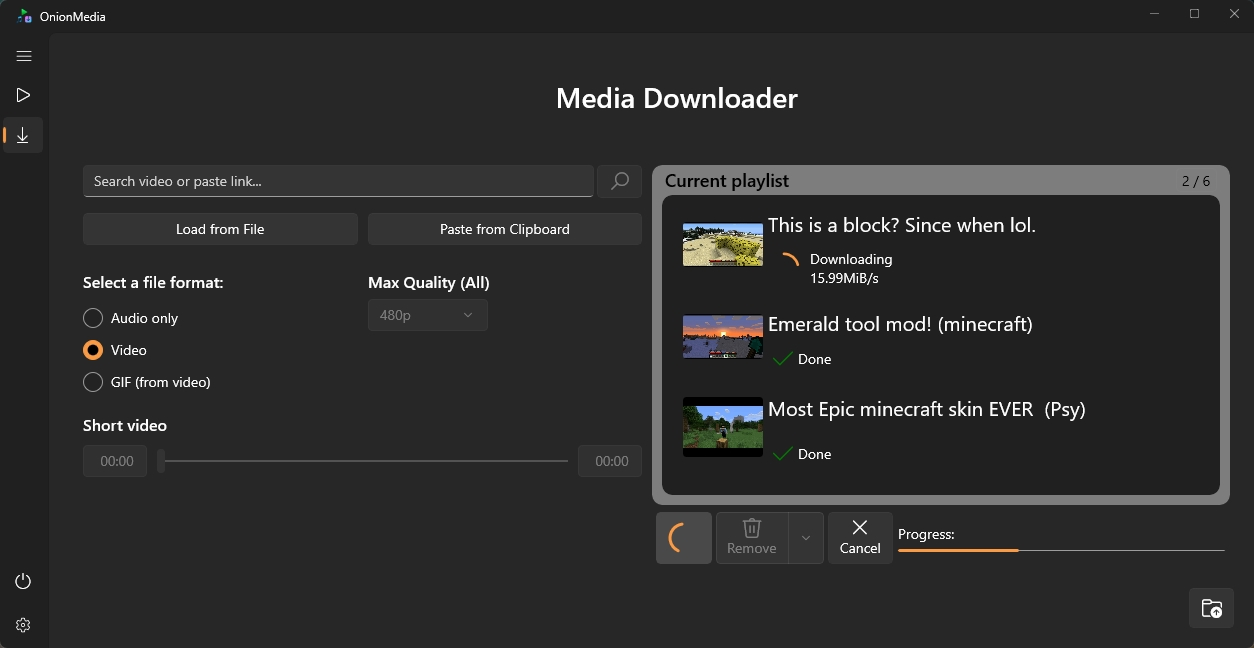
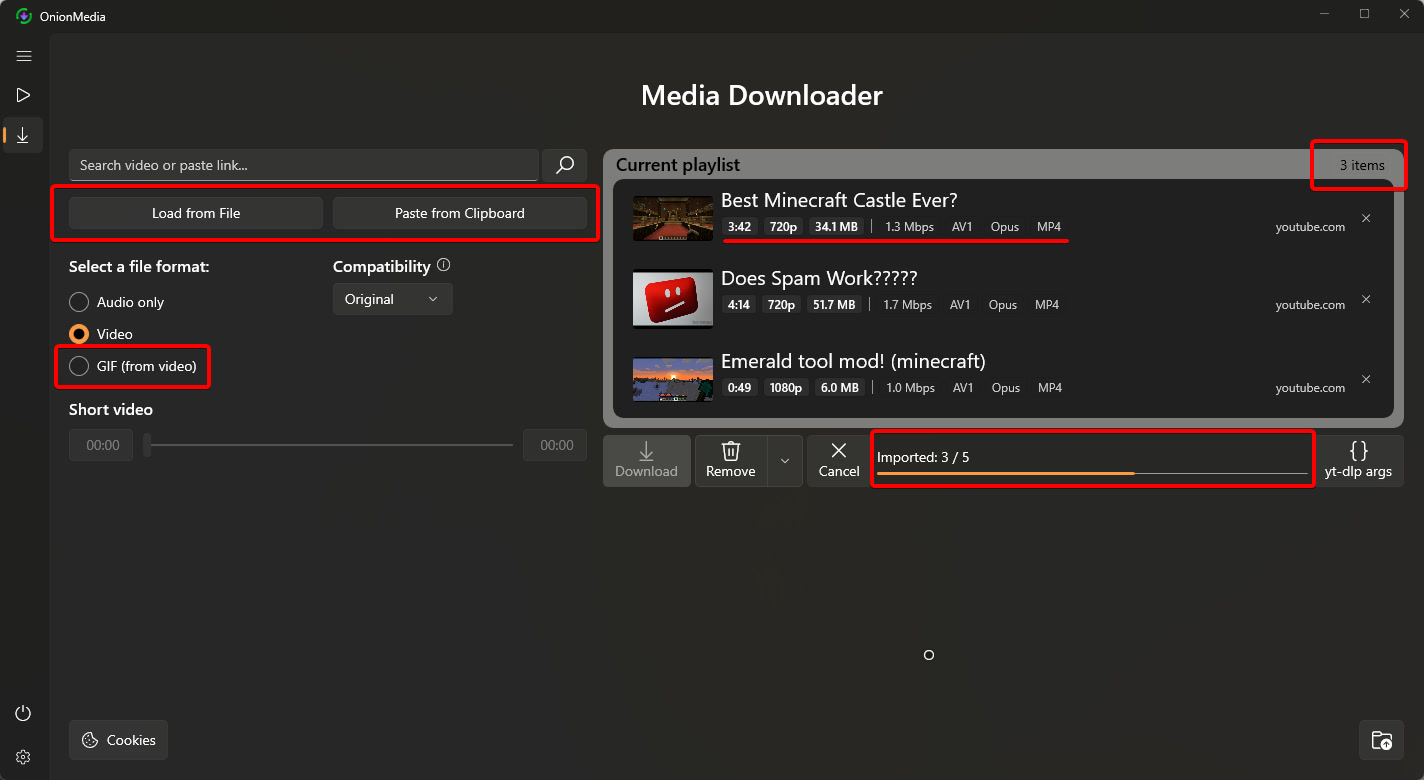
Docs: README, release notes 1.2.26, .project docs and new screenshots

diff --git a/README.md b/README.md
@@ -7,26 +7,49 @@
 > Licensed under AGPL-3.0.
 
 ## What’s new in this fork
-- Added a counter showing the number of downloaded links out of the added ones
-- Added support for downloading multiple videos from a file or clipboard
-- Added an import progress bar
-- Added GIF creation from video with selectable quality options
-- Added Path Folder button on every page
+- Download counter above the progress bar (`Downloaded: 3 / 12`, failed/cancelled videos in brackets) and the number of videos next to *Current playlist* (`12 items`)
+- Batch download: multiple videos from a file or the clipboard
+- Import progress bar with an `Imported: X / Y` counter
+- GIF creation from video with selectable quality options
+- Path Folder button on every page
 - Removed Geo-Restrictions: Reverted YoutubeExplode to a clean version (6.0.7) to remove the political blocking message
-- Added full cookie support (browser, file, paste or custom key) for age-restricted and login-gated videos
+- Full cookie support (browser, file, paste or custom key) for age-restricted and login-gated videos
+- Cloudflare support: browser impersonation is switched on automatically when a site blocks yt-dlp, and the request is retried
+- Video discovery on web pages: if yt-dlp finds nothing, the page itself is scanned (download buttons, players, embeds, KVS tube players) and all found qualities are offered
+- Updated yt-dlp (2026.10.21) with daily auto-update (or update manually from the "yt-dlp args" window)
+- **Compatibility** choice for downloaded videos: **Original** (default – saved as the site delivers it, fastest, no conversion), **Universal** (converted to H.264 + AAC in MP4 when needed, plays everywhere incl. iPhone – takes longer when converting) or **Compact** (AV1/VP9 converted to HEVC/H.265, smaller files)
+- Max Quality now works as a ceiling for every site, not only YouTube
+- **yt-dlp args** button for custom yt-dlp parameters with validation, a test run on the selected video and an output log (the button lights up when parameters are active, like Cookies)
+- The playlist now expands when more than 3 videos are added and uses the free height of the window. Every item shows compact info in one line: duration, resolution, size | bitrate, video/audio codec, container and the site it comes from
+- The info chips show the **final** file. Whatever changes is shown as *result (original)*: `1080p60 (2160p60)` when Max Quality limits the resolution, `H.264 (AV1)` / `MP4 (WEBM)` when the video is converted, `0:45 (5:40)` when *Short video* trims it. Hover a card to see the original format (*Source*)
+- Max Quality always picks the best version at or below the limit (checked with real 1080p/1440p downloads of 4K videos). Some sites offer only a few versions – e.g. fap-nation has 360p/480p/720p streams plus the 4K original, so "1080p" gives 720p there; the card then shows `720p (2160p)` and the tooltip lists the available qualities
+- Wider playlist: the page is split about 40/60 so the cards have more room for titles and info; buttons line up with the page margins
+- Playlist editing: select several videos with **Ctrl/Shift + click**, remove them with the **Delete** key or *Remove*, remove a single video with the small **✕** on its card or *Remove from playlist* in the right-click menu (works anywhere on the card). After removing, the next video is selected instead of jumping to the end. *Short video* is hidden while several videos are selected
+- Faster adding of videos: slow or dead links no longer hold up the list (shorter probe timeouts, all candidates probed in parallel, no pointless retries for unsupported/removed links)
+- **Compatibility** selector next to *Max Quality* on the download page (same setting as *Settings → Video compatibility*), with a tooltip explaining the modes
+- Redesigned the **yt-dlp args** window: a catalog of popular yt-dlp options with short descriptions, value pickers, *Copy* and *Add* buttons, a help button instead of long text, and a yt-dlp section with the installed version, its release date, *Update yt-dlp* and auto-update; a click outside the window closes it like *Cancel*
+- Fixed the installer: the certificate restriction check ("Basic Constraints") is removed, the installer is always in English (not in the Windows language) and no longer asks to press a key – it closes by itself on success and only stays open when there is an error
+- Fixed "Download thumbnail": the saved file is now a real JPG/PNG (WebP thumbnails are converted), playlist/mix links like `&list=RD...` are handled and file names are cleaned up (invisible "blank" letters, emoji, RTL marks, overlong titles – such files could not be opened by Windows Photos)
+- Fixed the "Nullable object must have a value" error for videos without duration info
+- Fixed videos where the site reports only the height or only the width (the missing value is estimated from the aspect ratio or measured with ffprobe, so Max Quality and the info still work)
 
 ## New Features
-| Download Counter | Import Progress |
+| Download Counter & Import Progress | Cookie Support |
 |:---:|:---:|
-| <img src="images/screenshots/Counter.jpg" width="100%"> | <img src="images/screenshots/Import.jpg" width="100%"> |
-| Cookie Support | Batch Download |
-| <img src="images/screenshots/cookie.png" width="100%"> | <img src="images/screenshots/bulk.png" width="100%"> |
+| <img src="images/screenshots/Counter.jpg" width="100%"> | <img src="images/screenshots/cookie.png" width="100%"> |
+| Batch Download | Custom yt-dlp Parameters |
+| <img src="images/screenshots/bulk.png" width="100%"> | <img src="images/screenshots/ytdlp-args.png" width="100%"> |
+
+## How to use the new options
+- **Video compatibility** – the **Compatibility** dropdown next to *Max Quality* on the download page (or *Settings → Video compatibility*, both are the same setting).  Hover the ⓘ icon for a short explanation. **Original** (default) keeps whatever the site delivers and is the fastest. Choose **Universal** if the videos must play on any device (iPhone, TV, browser) – videos in other formats are converted, which takes longer. **Compact** gives smaller HEVC files (iPhone 7+/modern devices), converting also takes longer.
+- **yt-dlp args** – the `</>` button next to *Download / Remove*. Pick an option from *Popular options* (e.g. `--impersonate chrome`, `-S vcodec:h264`, `--proxy socks5://127.0.0.1:1080`), choose a value and press *Add* (or *Copy*). Output path and `-f` are managed by OnionMedia; Max Quality is still applied. Use *Validate* and *Test with selected video* before saving. yt-dlp can be updated at the bottom of the same window.
+- **Sites behind Cloudflare** – nothing to do: OnionMedia retries with browser impersonation automatically and remembers the site. Cookies (bottom-left button) can be combined with it for login-gated pages.
 
 ## Installation Guide:
 1. Download the latest release (`.zip`) and extract it.
 2. Open the extracted folder (e.g., `OnionMedia_xx`).
 3. Double-click on `install.bat`.
-4. A PowerShell window will open. Follow the instructions (you may need to press Enter or type 'Y' to proceed with certificate installation).
+4. A PowerShell window will open (always in English). Confirm the certificate installation if asked (type 'Y' / allow administrator rights). The window closes by itself after a successful installation; if something goes wrong it stays open and shows the error.
 5. After successful installation you can find the app in the **Start Menu** by searching for "OnionMedia".
 
 **Note:** You may be prompted to enable **Developer Mode** in Windows Settings. If the Settings app opens, simply toggle "Developer Mode" to **On**, then return to the PowerShell window to continue installation.

diff --git a/.project/RELEASE-NOTES-1.2.26.md b/.project/RELEASE-NOTES-1.2.26.md
@@ -1,0 +1,35 @@
+# Release v1.2.26 (draft)
+
+- **Tag:** `1.2.26`
+- **Title:** `OnionMedia Batch – Cloudflare, Custom Args & iPhone Compatibility v1.2.26`
+- **Asset:** `OnionMedia_1.2.26.zip` (built by `build_release.ps1`, in `OnionMedia\OnionMedia (Package)\AppPackages\`)
+
+## Body (paste into GitHub)
+
+## What's new
+- Cloudflare Support: Sites behind Cloudflare / anti-bot protection now work. OnionMedia switches on yt-dlp browser impersonation automatically, retries the request and remembers the site.
+- Video Discovery on Web Pages: If yt-dlp finds nothing, the page itself is scanned (download buttons, players, embeds, KVS players used by many tube sites) and all found qualities are offered.
+- Updated yt-dlp + Auto-Update: yt-dlp 2026.10.21 is included and now updates itself automatically (at most once a day). You can also update it manually from the "yt-dlp args" window, which shows the installed version and its release date.
+- iPhone-Compatible Videos: New "Compatibility" selector next to Max Quality on the download page (also in Settings → Video compatibility) – Original (default, saved as the site delivers it, fastest), Universal (converted to H.264 + AAC in MP4 when needed, plays everywhere incl. iPhone, takes longer when converting) or Compact (HEVC/H.265, smaller files).
+- Quality Ceiling for All Sources: "Max Quality" now applies to every site, not only YouTube.
+- Custom yt-dlp Parameters: New "yt-dlp args" button with a catalog of popular options (short description, value picker, Copy and Add), validation, a test run on the selected video and an output log. The button lights up when custom parameters are active, just like Cookies. Click outside the window to close it (same as Cancel).
+- Expanding Playlist with Info: The playlist grows to the window height when more than 3 videos are added. Every item shows duration, resolution and size, then bitrate, codecs, container and the site it comes from.
+- Download Counter: While downloading, the text above the progress bar shows how many videos are done, e.g. "Downloaded: 3 / 12" (failed or cancelled ones in brackets), just like "Imported: X / Y" during import. Next to "Current playlist" you see how many videos the playlist holds, e.g. "12 items".
+- Final Format in the Playlist: The chips show the file you will get. Anything that changes is shown as "result (original)": "1080p60 (2160p60)" when Max Quality limits the resolution, "H.264 (AV1)" / "MP4 (WEBM)" when the video is converted, "0:45 (5:40)" when Short video trims it. Hover a card to see the original format (Source).
+- Quality Cap: Max Quality always picks the best version at or below the limit. If a site has no version in between (e.g. only 720p streams and a 4K original), the card shows "720p (2160p)" and the tooltip lists what is available.
+- Wider Playlist: The page is split about 40/60 so the playlist has more room for titles and info; buttons line up with the page margins.
+- Easier Playlist Editing: Select several videos with Ctrl/Shift + click and remove them with the Delete key or Remove. Every card has a small ✕ button and "Remove from playlist" in the right-click menu (now works anywhere on the card). After removing, the next video is selected instead of jumping to the end.
+- Faster Adding: Slow or dead links no longer hold up adding videos (shorter timeouts, parallel probing, no retries for unsupported or removed links).
+- Installer Fix: Removed the certificate restriction check ("Basic Constraints" error). The installer is now always in English, closes by itself after a successful installation and only stays open when there is an error.
+- Thumbnail Fix: "Download thumbnail" now saves a real JPG/PNG (WebP is converted), works with playlist/mix links (`&list=RD...`) and cleans up file names (invisible "blank" letters, emoji, overlong titles) so Windows Photos can open them.
+- Fixed Crash: "Nullable object must have a value" no longer appears for videos without duration info.
+- Better Video Info: Videos where the site reports only the height or only the width are handled (the missing value is estimated or measured), so Max Quality and the item info work for them too.
+
+## Installation Guide:
+1. Download release (`OnionMedia_1.2.26.zip`) and extract it.
+2. Open the extracted folder (e.g., `OnionMedia_1.2.26`).
+3. Double-click on `install.bat`.
+4. A PowerShell window will open (always in English). Confirm the certificate installation if asked (type 'Y' / allow administrator rights). The window closes by itself after a successful installation; if something goes wrong it stays open and shows the error.
+5. After successful installation you can find the app in the **Start Menu** by searching for "OnionMedia".
+
+**Note:** You may be prompted to enable **Developer Mode** in Windows Settings. If the Settings app opens, simply toggle "Developer Mode" to **On**, then return to the PowerShell window to continue installation.

diff --git a/.project/AGENTS.md b/.project/AGENTS.md
@@ -1,0 +1,28 @@
+# Notes for AI agents
+
+## Ground rules (from the owner)
+- Work **locally**. Do not connect GitHub, do not push, do not commit unless the owner explicitly asks.
+- The owner runs commands one by one with approval → batch shell commands.
+- Keep CRLF line endings; keep existing BOMs. UI text is English (resource `.resw` files exist for de/en/es; new strings are currently hardcoded English).
+
+## Solution layout
+- `OnionMedia/OnionMedia.Core` — platform-independent logic (net6.0 + net6.0-windows). ViewModels, models, yt-dlp/ffmpeg logic.
+- `OnionMedia/OnionMedia` — WinUI 3 app (WindowsAppSDK 1.1.4), views, dialogs, DI (`ServiceProvider.cs`, Jab).
+- `OnionMedia/OnionMedia (Package)` — MSIX packaging project (`.wapproj`), sideload script patch.
+- `YoutubeDLSharp-master` — vendored YoutubeDLSharp (yt-dlp wrapper). Default options in `YoutubeDL.GetDownloadOptions()`.
+- `setup_dependencies.ps1` — downloads ffmpeg/ffprobe (BtbN), latest yt-dlp, deno into `ExternalBinaries\ffmpeg+yt-dlp\binaries`.
+
+## Downloader pipeline (Core/Classes)
+1. **Fetch**: `DownloaderMethods.FetchVideoDataAsync(url)` — the only entry point used by the ViewModel.
+   - `YtDlpOptions.Apply()` adds cookies (`CookieOptionsBuilder`), `--impersonate chrome` for hosts that showed an anti-bot block, custom args, `--js-runtimes deno:` when yt-dlp runs from LocalState.
+   - Anti-bot (403/Cloudflare) or network errors → one retry with impersonation toggled; host remembered for the session.
+   - If yt-dlp fails or returns a *generic* playlist without formats → `WebPageVideoResolver.TryResolveAsync()` scans the page HTML (download buttons, `<video>/<source>`, JSON-LD, og:video, iframes, loose URLs), filters ads, probes candidates with ffprobe (`MediaProbe`), clusters variants of the same video by duration and builds a `VideoData` with formats `web{i}-{h}p`. Embedded players are resolved via yt-dlp with `--referer`.
+2. **Plan/display**: `FormatPlanner` builds `-f`/`-S` strings and predicts the chosen format; `StreamItemModel.UpdatePlannedFormat/SetActualFormat/SetFinalFormat` fill the chips in the queue.
+3. **Download**: `DownloadStreamAsync` → `GetDownloadSourceUrl` (web items: variant below the quality ceiling, or the embed URL) → `RunVideoDownloadAndConversionAsync` / audio path. Retries toggle impersonation on anti-bot/network errors.
+4. **Compatibility pass**: `EnsureCompatibleAsync` (ffmpeg) → MP4, H.264 or HEVC(hvc1), 8-bit 4:2:0, AAC, `+faststart`, cover re-embedded. Copies streams if already compatible.
+
+## Quality ceiling
+`FormatPlanner.BuildFormatSelector(cap)` = `bv*[height<=cap]+ba/b[height<=cap]/bv*+ba/b` and `-S res:cap` (closest above the cap if nothing fits). Custom `-f` is **blocked** in custom args so the ceiling can't be bypassed; user `-S` fields are merged in front of ours. Web items pick the variant with `FormatPlanner.PickWebFormat`.
+
+## Testing without the UI
+A console harness (not in the repo) can reference `OnionMedia.Core` (net6.0) and provide stub `IPathProvider`, `IDispatcherService`, `ISettingsService`, `IStringResourceService`, `IDataCollectionProvider<LibraryInfo>` via `IoC.Default.InitializeServices(...)`, then call `DownloaderMethods.FetchVideoDataAsync` / `DownloadStreamAsync`.

diff --git a/.project/BUILD-RELEASE.md b/.project/BUILD-RELEASE.md
@@ -1,0 +1,50 @@
+# Building and releasing
+
+## Toolchain
+- Windows 10/11, Visual Studio 2022+ (tested with VS 18 Community) with ".NET desktop development" + "Windows App SDK / MSIX packaging" workloads.
+- .NET SDK (any recent; project targets net6.0-windows10.0.19041 — the .NET 6 runtime is bundled self-contained in the package build).
+- Windows SDK 10.0.19041+.
+
+## 1. Dependencies (binaries are git-ignored except yt-dlp.exe)
+```powershell
+cd <repo>
+powershell -NoProfile -ExecutionPolicy Bypass -File .\setup_dependencies.ps1
+```
+Downloads `ffmpeg.exe`, `ffprobe.exe` (BtbN GPL build), latest `yt-dlp.exe`, `deno.exe` into
+`OnionMedia\OnionMedia\ExternalBinaries\ffmpeg+yt-dlp\binaries`. Without them the build fails with MSB3030 (file not found).
+
+## 2. Debug build (compile check)
+```powershell
+$msb = & "${env:ProgramFiles(x86)}\Microsoft Visual Studio\Installer\vswhere.exe" -latest -find MSBuild\**\Bin\MSBuild.exe
+& $msb OnionMedia\OnionMedia\OnionMedia.csproj /restore /m /p:Configuration=Debug /p:Platform=x64 /p:RuntimeIdentifier=win10-x64
+```
+
+## 3. Release package (sideloading) — use `build_release.ps1`
+```powershell
+cd <repo>
+powershell -NoProfile -ExecutionPolicy Bypass -File .\build_release.ps1
+```
+The script reads the version from `Package.appxmanifest` (e.g. `1.2.26.0` → `1.2.26`), builds Release/x64 sideload-only and produces:
+
+| Output | Path |
+|---|---|
+| Release folder (no `_Test` suffix) | `OnionMedia\OnionMedia (Package)\AppPackages\OnionMedia_<version>\` |
+| Release asset | `OnionMedia\OnionMedia (Package)\AppPackages\OnionMedia_<version>.zip` |
+
+It passes `/p:AppxPackageTestDir=...\OnionMedia_<version>\` (falls back to renaming the VS `..._Test` folder), checks that
+`install.bat`, `Install.ps1`, patched `Add-AppDevPackage.ps1` (+ resources), the `.cer`, the `.msixbundle` and `Dependencies\`
+are present, then zips the folder **contents** (files at the zip root – same layout as the previous releases).
+
+The wapproj target **OnionMediaPatchSideloadScripts** (runs after `_AddWindowsInstallScriptToTestLayout`) executes
+`OnionMedia (Package)\Patch-SideloadScripts.ps1` which disables `CheckCertificateRestrictions`, strips the invalid signature
+block and copies `install.bat`. The build log shows `OnionMedia: patched ...`; `build_release.ps1` re-runs the patch if needed.
+
+MSBuild may print two `NETSDK1047` restore errors (win10-x64 assets of YoutubeDLSharp/Core during the package restore). They do
+not stop the bundle from being built; the script checks the output instead of the exit code.
+
+## 4. Publish (naming convention)
+- Zip asset: `OnionMedia_<version>.zip` (e.g. `OnionMedia_1.2.26.zip`), extracted folder name `OnionMedia_<version>`.
+- Tag: `<version>` (the last release used `1.2.25`; older ones used `v1.2.24` – pick one style and keep it).
+- Title: `OnionMedia Batch – <short headline> v<version>`.
+- Body: `## What's new` bullet list + the standard `## Installation Guide:` block (see `RELEASE-NOTES-<version>.md`).
+See RELEASE-CHECKLIST.md.

diff --git a/.project/YT-DLP.md b/.project/YT-DLP.md
@@ -1,0 +1,32 @@
+# yt-dlp: updates, impersonation, web pages
+
+## Auto update
+- The MSIX install folder is read-only. On start (`App.OnLaunched` → `YtDlpUpdater.EnsureUpToDateAsync()`), the bundled
+  `yt-dlp.exe` is copied to `%LOCALAPPDATA%\Packages\<package>\LocalState\yt-dlp\yt-dlp.exe` and `yt-dlp -U` runs **at most once
+  per 24 h** (setting `AutoUpdateYtDlp`, default on; toggle in the "yt-dlp args" dialog). A newer bundled version (app update) replaces
+  the copy. `PathProvider.YtDlPath` prefers the LocalState copy.
+- Manual: "yt-dlp args" dialog → **Update yt-dlp** (needs access to github.com; works with or without VPN as long as GitHub is reachable).
+- Because yt-dlp then runs outside the binaries folder, `--js-runtimes deno:<bundled deno.exe>` is passed automatically (YouTube JS challenges).
+- Release builds should still bundle a fresh yt-dlp (`setup_dependencies.ps1` always downloads the latest).
+
+## Cloudflare / anti-bot (fap-nation.org & co.)
+- Plain yt-dlp gets `HTTP Error 403` from Cloudflare → the app used to show "No video was found".
+- Now: on 403/429/503/"Cloudflare"/"impersonat" errors the fetch is retried with `--impersonate chrome` (curl_cffi is inside the
+  standalone yt-dlp.exe); the host is remembered for the session. Downloads alternate impersonation on retry (some CDNs fail with
+  impersonation, e.g. SSL errors), so it works with and without VPN.
+- Cookies ("Cookies from browser"/file/paste) are applied to every call as before.
+- `--external-downloader-args` now carries the downloader name (`ffmpeg:...`) → no more "given without specifying name" warning.
+
+## Pages with or without a download button
+`WebPageVideoResolver` (used when yt-dlp fails or returns a generic playlist):
+- HTML is fetched via yt-dlp `--write-pages` (same TLS impersonation/cookies).
+- Candidates: download buttons/links to media, `<video>/<source>`, `data-*` media attributes, JSON `contentUrl/embedUrl`,
+  `og:video`, iframes (players), loose media URLs (only if nothing better exists).
+- Ads are filtered (banner sizes, ad hosts, decorative muted/looping videos, clips < 15 s); remaining files are probed with ffprobe
+  (browser UA + Referer) and grouped into quality variants of the same video (same duration).
+- Embedded players are passed to yt-dlp with `--referer <page>`.
+- Note: ffprobe (Windows schannel TLS) cannot open some hosts (e.g. fappingstream.com) → that variant shows only "1080p" until it is
+  downloaded; the download itself goes through yt-dlp and works.
+
+If a new site breaks: open the item's log (right click → View log), check the `[OnionMedia]` lines; HTML dumps can be made with
+`yt-dlp --impersonate chrome --write-pages --skip-download <url>`.

diff --git a/.project/CERTIFICATE.md b/.project/CERTIFICATE.md
@@ -1,0 +1,34 @@
+# Certificate / "Basic Constraints" installer error
+
+## Symptom
+On a new PC the sideload installer stops with
+> Installing certificate... Error: the certificate does not contain the Basic Constraints extension
+> (RU: «Установка сертификата... Ошибка: в сертификате отсутствует расширение базовых ограничений.»)
+
+## Cause
+The fork is signed with a self-signed certificate (`PackageCertificateThumbprint` in the wapproj; VS "temporary key" style).
+Newer Visual Studio versions generate an `Add-AppDevPackage.ps1` with `CheckCertificateRestrictions`, which requires the
+Basic Constraints extension (CA=false) and Code-Signing-only EKUs. Our cert has no Basic Constraints → the script aborts
+before importing it. A Microsoft/CA-issued certificate is not available for this fork.
+
+## Workaround in this repo (automatic)
+- `OnionMedia (Package)/Patch-SideloadScripts.ps1` comments out the `CheckCertificateRestrictions` call and removes the script's
+  (now invalid) Authenticode signature block. Run automatically by the wapproj target `OnionMediaPatchSideloadScripts`.
+- `install.bat` (repo root, copied into the release folder) unblocks the downloaded files and runs `Install.ps1` with
+  `-ExecutionPolicy Bypass`. The certificate is still installed into *Local Machine\Trusted People* (the user confirms; admin
+  prompt appears).
+
+## Alternative: a certificate that passes the check (optional, per machine that signs releases)
+```powershell
+$cert = New-SelfSignedCertificate -Type Custom -Subject "CN=<Publisher from Package.appxmanifest>" `
+  -KeyUsage DigitalSignature -FriendlyName "OnionMedia-Batch signing" `
+  -CertStoreLocation "Cert:\CurrentUser\My" -NotAfter (Get-Date).AddYears(5) `
+  -TextExtension @("2.5.29.37={text}1.3.6.1.5.5.7.3.3", "2.5.29.19={text}")
+$cert.Thumbprint   # put into <PackageCertificateThumbprint> of the wapproj
+```
+`CN=` must match `Publisher` in `Package.appxmanifest` exactly. Changing the certificate means users must trust the new `.cer`
+once (install.bat does this). Keep the patch anyway — it is harmless.
+
+## Per release
+Nothing to do as long as the build log shows `OnionMedia: patched ...` and the `_Test` folder contains `install.bat`.
+Quick check: `Select-String -Path "<_Test>\Add-AppDevPackage.ps1" -Pattern "^\s*CheckCertificateRestrictions\s*$"` must return nothing.

diff --git a/.project/CUSTOM-ARGS.md b/.project/CUSTOM-ARGS.md
@@ -1,0 +1,19 @@
+# Custom yt-dlp parameters ("yt-dlp args" button)
+
+Location: Media Downloader page, right of Download/Remove under "Current playlist". The icon/text turn accent-colored while active.
+
+Dialog:
+- **Apply custom parameters** toggle, multi-line text box (quotes for values with spaces, `#` comment lines).
+- Live syntax check (InfoBar): errors block saving while enabled; warnings for options OnionMedia already sets (cookies, recode/merge).
+- **Validate** — runs `yt-dlp --ignore-config <args>` with no URL, so yt-dlp itself parses them (success = it only complains about the missing URL; unknown options / bad values = rejected). `--version` is not used because yt-dlp exits on it before reporting unknown options.
+- **Test with selected video** — `yt-dlp --simulate -v <args> <url>` (with cookies/impersonation), output in the log box. If the site answers with a Cloudflare/anti-bot 403 it is retried automatically with `--impersonate chrome` (same as real downloads).
+- **Update yt-dlp** — forced `yt-dlp -U`; checkbox for automatic daily updates.
+- Saved in app settings (`UseCustomYtDlpArgs`, `CustomYtDlpArgs`), applied to every info fetch and download (not to thumbnail downloads).
+
+Blocked options (managed by the app): `-o/-P`, `--exec`, `-j/-J/--dump-*`, `--print`, `-s/--simulate/--skip-download`, `-q`,
+`--no-progress`, `--newline`, `-a`, `-U`, `--version`, `--config-locations`, **`-f/--format`** (use `-S`; the Max Quality ceiling must keep working).
+User `-S` fields are merged in front of OnionMedia's sort string (single `-S`).
+
+Examples: `--impersonate chrome`, `-S vcodec:h264`, `--proxy socks5://127.0.0.1:1080`, `--sleep-requests 1`,
+`--add-header "Referer:https://example.com/"`, `--extractor-args "youtube:player_client=default"`.
+Implementation: `Core/Classes/YtDlpOptions.cs` (`YtDlpCustomArgs`), `Views/Dialogs/CustomArgsDialog.xaml(.cs)`.

diff --git a/.project/COMPATIBILITY.md b/.project/COMPATIBILITY.md
@@ -1,0 +1,15 @@
+# Output compatibility (iPhone etc.)
+
+Download page → "Compatibility" (next to Max Quality, ⓘ tooltip explains the modes) = Settings → "Video compatibility (downloads)"
+(same AppSettings.VideoCompatibilityMode, stored as "videoCompatibilityMode2"; values saved by earlier test builds under
+"videoCompatibilityMode" are ignored so everyone starts with Original). Changing it refreshes the chips of every queued item,
+which show the FINAL codecs/container (tooltip: Source → Result, max available vs. downloaded resolution):
+- **Original (default)** — no re-encoding: formats are merged/remuxed into MP4 (`--merge-output-format mp4`, `--remux-video mp4`;
+  the old `--recode-video mp4` re-encoded WebM sources and was slow). AV1/VP9/Opus possible.
+- **Universal** — MP4, H.264 8-bit 4:2:0 (High profile), AAC. yt-dlp prefers H.264/AAC formats (`-S ...,vcodec:h264,acodec:aac`);
+  if only AV1/VP9 exist at the chosen resolution, the file is re-encoded (libx264 CRF 21 or the selected hardware encoder, with software
+  fallback). Already compatible files are only remuxed (`+faststart`). Same approach as Tyrrrz/YoutubeDownloader (prefer muxable H.264 + AAC MP4).
+- **Compact** — MP4, HEVC tagged `hvc1` (required by Apple players) + AAC; H.264 sources are kept. Smaller files, slower re-encode.
+
+GIF mode and audio downloads are unaffected. The queue shows the planned format (duration, resolution, bitrate, codecs, container, size
+and "→ MP4 · H.264 + AAC (re-encode from VP9)"), the actually selected yt-dlp format while downloading, and the real file info after saving.

diff --git a/.project/README.md b/.project/README.md
@@ -1,0 +1,17 @@
+# .project — maintainer & AI-agent notes for OnionMedia-Batch
+
+This folder documents how this fork is built, released and extended. It is meant for humans **and** AI coding agents.
+
+| File | Topic |
+|---|---|
+| [AGENTS.md](AGENTS.md) | Rules / architecture map for AI agents working on this repo |
+| [BUILD-RELEASE.md](BUILD-RELEASE.md) | Toolchain, dependencies, building, packaging a release |
+| [CERTIFICATE.md](CERTIFICATE.md) | Self-signed certificate, the "Basic Constraints" installer error and its workaround |
+| [INSTALL.md](INSTALL.md) | How end users install a release (install.bat) |
+| [YT-DLP.md](YT-DLP.md) | yt-dlp auto-update, Cloudflare/impersonation, web-page scanning (fap-nation & co.) |
+| [CUSTOM-ARGS.md](CUSTOM-ARGS.md) | The "yt-dlp args" button / custom parameters |
+| [COMPATIBILITY.md](COMPATIBILITY.md) | Universal / Compact / Original output modes (iPhone-compatible downloads) |
+| [RELEASE-CHECKLIST.md](RELEASE-CHECKLIST.md) | Per-release steps, incl. **Per-release commands (from owner)** |
+| [RELEASE-NOTES-1.2.26.md](RELEASE-NOTES-1.2.26.md) | Tag / title / body of the v1.2.26 GitHub release |
+
+Release build: `.\build_release.ps1` in the repo root → `AppPackages\OnionMedia_<version>\` and `AppPackages\OnionMedia_<version>.zip`.

diff --git a/.project/INSTALL.md b/.project/INSTALL.md
@@ -1,0 +1,18 @@
+# Installing a release (end users)
+
+1. Download the release `.zip` and **extract the whole archive** (do not run from inside the zip).
+2. Double-click **install.bat**.
+   - It removes the "downloaded from the internet" mark, runs `Install.ps1`.
+   - Confirm the certificate installation (`Y`) and the administrator prompt — the fork's self-signed certificate is added to
+     *Trusted People* (needed once per PC / certificate).
+   - The app package and its dependencies (Windows App Runtime, VCLibs) are installed.
+   - All installer text is English regardless of the Windows language (`Import-LocalizedData -UICulture en-US` patch).
+   - No "press any key": on success the window says so and closes after 3 s; on failure it stays open with
+     "OnionMedia installation failed (error code N)" until Enter is pressed.
+3. Start "OnionMedia" from the Start menu.
+
+Troubleshooting
+- "Basic Constraints" error → you used an old release folder; use one built with the patch (see CERTIFICATE.md) or run
+  `Patch-SideloadScripts.ps1 -TestDir <folder>` on it.
+- Developer mode prompt on old Windows 10: allow sideloading (Settings → For developers → Install apps from any source).
+- Update: install the newer release the same way; settings are kept.

diff --git a/.project/RELEASE-CHECKLIST.md b/.project/RELEASE-CHECKLIST.md
@@ -1,0 +1,22 @@
+# Release checklist
+
+1. `git pull`, make sure the working tree is clean.
+2. `.\setup_dependencies.ps1` (fresh yt-dlp, ffmpeg, deno).
+3. Bump `Version` in `OnionMedia\OnionMedia (Package)\Package.appxmanifest`.
+4. Debug build compile check (BUILD-RELEASE.md §2), quick manual test:
+   - YouTube video (Universal mode → plays on iPhone), cookies from browser, a fap-nation page, the "yt-dlp args" dialog (Validate/Test).
+5. `.\build_release.ps1` (BUILD-RELEASE.md §3) → `AppPackages\OnionMedia_<version>\` + `AppPackages\OnionMedia_<version>.zip`.
+   Check the log for `OnionMedia: patched` and the "Release zip:" line.
+6. Test install on a clean user/PC: unzip, run `install.bat` (no "Basic Constraints" error).
+7. Create the GitHub release (tag `<version>`, title `OnionMedia Batch – <headline> v<version>`), paste
+   `.project/RELEASE-NOTES-<version>.md`, attach `OnionMedia_<version>.zip`.
+8. Commit/push only when the owner says so.
+
+## Per-release commands (from owner)
+> Placeholder — the owner will add the exact commands they use for every release (build, signing, zipping, upload, tagging).
+>
+> ```powershell
+> # TODO (owner): e.g.
+> # cd E:\Projects\Programming\OnionMedia-Batch
+> # ...
+> ```
